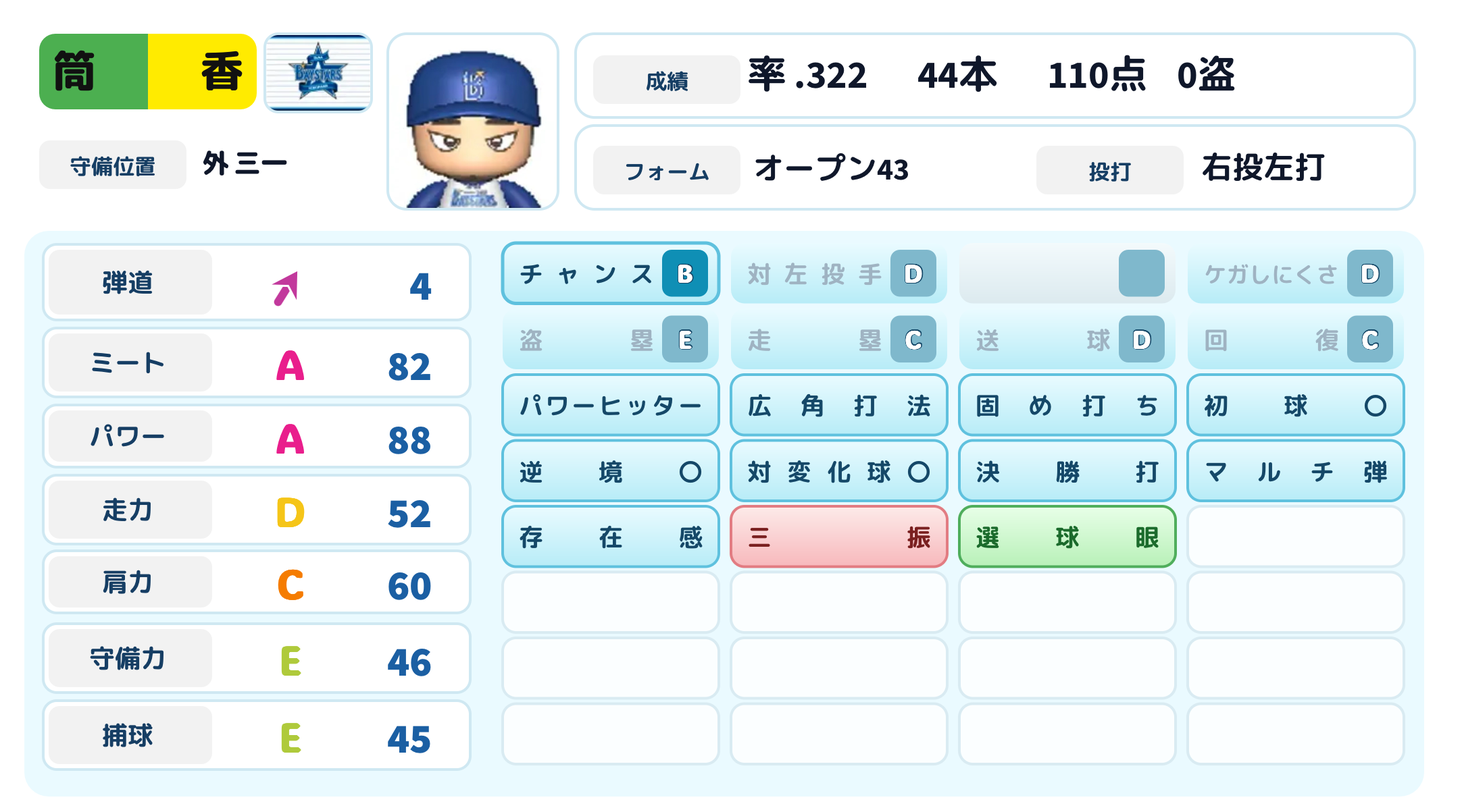
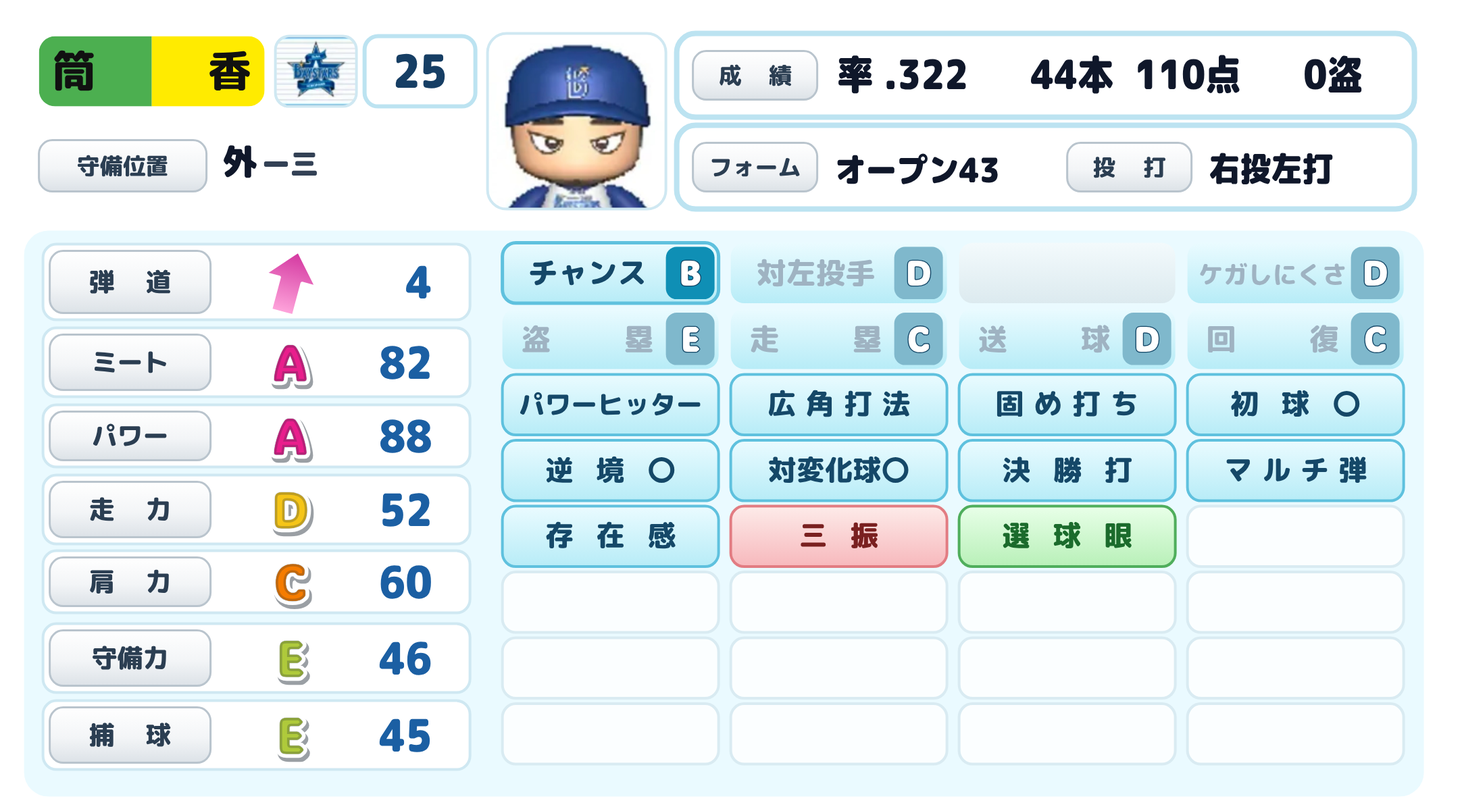
能力画像ジェネレーター（野手）：実機の画面に近づける
- 背番号の枠を追加（球団マークの右）。上段の比率を実機に合わせる
- キャッチャー以外の空きマスに残っていたランクの四角を消す
- 守備位置を「外ー三」の形に（サブポジションは「ー」のあとに少し小さく）
- 項目名の札を、グラデーションと枠線のあるボタン状に。2文字の項目は1字空ける
- 能力値のランク文字に白い縁取りと影を付け、ひと回り大きく
- 弾道の矢印を太いグラデーションの矢印に（弾道4はほぼ真上）
- 特殊能力の名前を枠の端まで広げず、短い名前は中央寄りに少しだけ空ける
- 上段のランク付き項目は名前を太く大きく、ランクの四角を札の高さいっぱいに
- 数字・成績の行を丸ゴシックの太字で、少し横幅を詰めて表示
- 成績・フォームの枠の縁を太く
- 使用例の画像を作り直す

Claude-Session: https://claude.ai/code/session_01SKh1jhAp32CEmbZCaaEmgk

diff --git a/nouryoku/index.html b/nouryoku/index.html
@@ -170,6 +170,10 @@ footer.disclaimer{ margin-top:30px; font-size:0.82rem; color:var(--ink-mute); bo
             <input type="text" id="p-name" value="ドック太郎" maxlength="10">
         </div>
         <div class="field">
+            <label for="p-number">背番号</label>
+            <input type="text" id="p-number" value="10" maxlength="3" inputmode="numeric">
+        </div>
+        <div class="field">
             <label>選手名プレートの色（複数選択でツートン）</label>
             <div class="name-color-picks">
                 <label><input type="checkbox" id="p-color-yellow" checked> 黄色（内野）</label>
@@ -202,7 +206,7 @@ footer.disclaimer{ margin-top:30px; font-size:0.82rem; color:var(--ink-mute); bo
         </div>
         <div class="field">
             <label for="p-subpos">サブポジション（任意）</label>
-            <input type="text" id="p-subpos" value="" maxlength="4" placeholder="例：一">
+            <input type="text" id="p-subpos" value="" maxlength="4" placeholder="例：三">
         </div>
         <div class="field">
             <label for="p-throwbat">投打</label>
@@ -317,7 +321,7 @@ footer.disclaimer{ margin-top:30px; font-size:0.82rem; color:var(--ink-mute); bo
 
 <h2>使い方</h2>
 <ol>
-<li>選手名・球団旗の色・守備位置・投打などの基本情報を入力します</li>
+<li>選手名・背番号・球団旗の色・守備位置・投打などの基本情報を入力します</li>
 <li>能力値（ミート・パワーなど）の数値とランクを入力します</li>
 <li>特殊能力上段のランクを選びます</li>
 <li>「成績」「パワー」などの項目名は、表示ラベルの変更欄や能力値・特殊能力上段の入力欄で自由に書き換えられます</li>
@@ -333,7 +337,7 @@ footer.disclaimer{ margin-top:30px; font-size:0.82rem; color:var(--ink-mute); bo
 </p>
 
 <p>
-<img src="/nouryoku/example-tsutsugo.png?v=2" alt="パワプロ風 能力画像ジェネレーター（野手）で作成した能力画像の例" width="2164" height="1200" loading="lazy" style="max-width:100%; height:auto; border:1px solid #c2cad6; border-radius:12px;">
+<img src="/nouryoku/example-tsutsugo.png?v=3" alt="パワプロ風 能力画像ジェネレーター（野手）で作成した能力画像の例" width="2164" height="1201" loading="lazy" style="max-width:100%; height:auto; border:1px solid #c2cad6; border-radius:12px;">
 </p>
 
 <h2>よくある質問</h2>
@@ -634,10 +638,13 @@ function fitTexts(svgRoot) {
     });
 }
 
-/* ---- 特殊能力バッジの名前を中央揃え・均等配置にする ----
-   自然な文字幅が枠より狭ければ文字間隔だけを広げて均等に埋め
-   （lengthAdjust="spacing"、字形は歪めない）、枠より広ければ
-   文字間隔ではなくフォントサイズを縮めて収める（字形が潰れるのを防ぐ）。 */
+/* ---- 特殊能力バッジの名前の字間 ----
+   実機は短い名前でも枠の端までは広げず、「三 振」「初 球 ○」のように
+   中央寄りに少しだけ空ける（2〜3文字は1字の0.8倍、4文字は0.35倍まで。
+   5文字以上は詰めたまま）。枠より広い名前は、字間ではなくフォントサイズを
+   縮めて収める（字形が潰れるのを防ぐ）。
+   data-full を付けたもの（選手名プレート）は、従来どおり枠いっぱいに広げる。 */
+var JUSTIFY_GAP = { 2: 0.8, 3: 0.8, 4: 0.35 };
 function justifyTexts(svgRoot) {
     svgRoot.querySelectorAll("text[data-justify]").forEach(function (t) {
         var maxW = parseFloat(t.getAttribute("data-justify"));
@@ -645,14 +652,63 @@ function justifyTexts(svgRoot) {
             var natural = t.getComputedTextLength();
             if (natural <= 0) return;
             if (natural <= maxW) {
-                t.setAttribute("textLength", maxW);
-                t.setAttribute("lengthAdjust", "spacing");
+                var target = maxW;
+                if (!t.hasAttribute("data-full")) {
+                    var n = Array.from(t.textContent).length;
+                    var size0 = parseFloat(t.getAttribute("font-size"));
+                    target = Math.min(maxW, natural + size0 * (JUSTIFY_GAP[n] || 0) * (n - 1));
+                }
+                if (target > natural + 0.5) {
+                    t.setAttribute("textLength", target);
+                    t.setAttribute("lengthAdjust", "spacing");
+                }
             } else {
                 var size = parseFloat(t.getAttribute("font-size"));
                 t.setAttribute("font-size", Math.max(9, size * (maxW / natural)));
             }
         } catch (e) { /* 非表示要素などでは無視 */ }
     });
+}
+
+/* ---- 数字・成績の字を少し細くする ----
+   実機の数字は横幅の狭い太い書体なので、data-squeeze の比率だけ
+   字形ごと横に縮める。data-max より広ければ、そこまで縮める。 */
+function squeezeTexts(svgRoot) {
+    svgRoot.querySelectorAll("text[data-squeeze]").forEach(function (t) {
+        try {
+            var natural = t.getComputedTextLength();
+            if (natural <= 0) return;
+            var target = natural * parseFloat(t.getAttribute("data-squeeze"));
+            var maxW = parseFloat(t.getAttribute("data-max"));
+            if (maxW && target > maxW) target = maxW;
+            t.setAttribute("textLength", target);
+            t.setAttribute("lengthAdjust", "spacingAndGlyphs");
+        } catch (e) { /* 非表示要素などでは無視 */ }
+    });
+}
+
+/* ---- 項目名の札（守備位置・成績・弾道・ミートなど） ----
+   実機の、白から薄い灰色へのグラデーションに枠線の付いたボタン状の札。
+   2文字の項目名（弾道・走力・成績・投打など）は1字ぶん空けて並べる。 */
+var labelPillSeq = 0;
+function labelPill(x, y, w, h, text, size) {
+    var gid = "gLabel" + (labelPillSeq++);
+    var fs = size || 18;
+    var two = Array.from(text).length === 2;
+    var fitAttr = two ? 'data-justify="' + Math.min(w - 16, fs * 3.2) + '" data-full="1"' : 'data-fit="' + (w - 14) + '"';
+    return '<defs><linearGradient id="' + gid + '" x1="0" y1="0" x2="0" y2="1">' +
+           '<stop offset="0" stop-color="#FFFFFF"/><stop offset="0.55" stop-color="#F3F5F7"/><stop offset="1" stop-color="#DCE2E7"/></linearGradient></defs>' +
+           '<rect x="' + x + '" y="' + y + '" width="' + w + '" height="' + h + '" rx="' + Math.min(10, h / 2) + '" fill="url(#' + gid + ')" stroke="#B9C4CD" stroke-width="1.5"/>' +
+           '<text ' + fitAttr + ' x="' + (x + w / 2) + '" y="' + (y + h / 2 + fs * 0.36) + '" text-anchor="middle" font-size="' + fs + '" font-weight="800" fill="#2B3E52" font-family="&quot;M PLUS Rounded 1c&quot;,&quot;Hiragino Kaku Gothic ProN&quot;,sans-serif">' + esc(text) + '</text>';
+}
+
+/* ---- 能力値のランク文字 ----
+   実機の、白い縁取りと濃い影の付いた立体的な字。 */
+function rankLetter(cx, baseline, rank, size) {
+    var font = 'font-family="\'ADLaM Display\',sans-serif" font-size="' + size + '" font-weight="800" text-anchor="middle"';
+    return '<text x="' + (cx + 1.5) + '" y="' + (baseline + 2.5) + '" ' + font + ' fill="#1E2A36" fill-opacity="0.45" stroke="#1E2A36" stroke-opacity="0.45" stroke-width="7" stroke-linejoin="round">' + rank + '</text>' +
+           '<text x="' + cx + '" y="' + baseline + '" ' + font + ' fill="' + STAT_RANK_COLOR[rank] + '" stroke="#FFFFFF" stroke-width="6" stroke-linejoin="round" paint-order="stroke fill">' + rank + '</text>' +
+           '<text x="' + cx + '" y="' + baseline + '" ' + font + ' fill="' + STAT_RANK_COLOR[rank] + '" stroke="#1E2A36" stroke-opacity="0.25" stroke-width="0.8">' + rank + '</text>';
 }
 
 function esc(s) {
@@ -670,14 +726,14 @@ function labelVal(id, fallback) {
    入れて均等配置し、5文字以上になったら詰めて表示する。 */
 function nameFitAttr(name, maxW) {
     var len = Array.from(name).length;
-    return (len >= 1 && len <= 4) ? 'data-justify="' + maxW + '"' : 'data-fit="' + maxW + '"';
+    return (len >= 1 && len <= 4) ? 'data-justify="' + maxW + '" data-full="1"' : 'data-fit="' + maxW + '"';
 }
 
 /* 特殊能力バッジの名前。中央揃えにし、描画後にjustifyTexts()で
    短い名前は文字間隔を広げて均等配置、長い名前は縮小して収める
    （data-justifyで対象幅を持たせておく）。 */
 function badgeLabel(cx, cy, maxW, text, color) {
-    return '<text data-justify="' + maxW + '" x="' + cx + '" y="' + cy + '" text-anchor="middle" font-size="18" font-weight="700" fill="' + color + '" font-family="&quot;M PLUS Rounded 1c&quot;,&quot;Hiragino Kaku Gothic ProN&quot;,sans-serif">' + esc(text) + '</text>';
+    return '<text data-justify="' + maxW + '" x="' + cx + '" y="' + cy + '" text-anchor="middle" font-size="21" font-weight="800" fill="' + color + '" font-family="&quot;M PLUS Rounded 1c&quot;,&quot;Hiragino Kaku Gothic ProN&quot;,sans-serif">' + esc(text) + '</text>';
 }
 
 /* =====================================================================
@@ -689,25 +745,27 @@ function badgeLabel(cx, cy, maxW, text, color) {
 var CARD_W = 1082;
 var HEADER_H = 171;
 
+/* 上段（選手名〜成績）は実機の画面の比率に合わせた（球団マークの右に背番号の枠） */
 var L = {
-    namePlate:   { x: 29,  y: 25,  w: 161, h: 56 },
-    flagBox:     { x: 196, y: 25,  w: 79,  h: 58 },
-    photoBox:    { x: 287, y: 25,  w: 126, h: 130 },
-    posLabel:    { x: 29,  y: 104, w: 109, h: 36 },
-    posValue:    { x: 149, y: 99,  w: 126, h: 42 },
-    bioRow1:     { x: 426, y: 25,  w: 621, h: 62 },
-    bio1Label:   { x: 439, y: 41,  w: 109, h: 36 },
+    namePlate:   { x: 29,  y: 27,  w: 167, h: 52 },
+    flagBox:     { x: 204, y: 27,  w: 60,  h: 52 },
+    numBox:      { x: 270, y: 27,  w: 82,  h: 52 },
+    photoBox:    { x: 361, y: 25,  w: 132, h: 130 },
+    posLabel:    { x: 29,  y: 104, w: 124, h: 38 },
+    posValue:    { x: 164, y: 99,  w: 188, h: 42 },
+    bioRow1:     { x: 501, y: 25,  w: 546, h: 62 },
+    bio1Label:   { x: 513, y: 38,  w: 92,  h: 36 },
     bio1Vals:    [
-        { x: 553, y: 36, w: 120, key: "avg", pre: "率 " },
-        { x: 679, y: 36, w: 90, key: "hr", pre: "" },
-        { x: 775, y: 36, w: 90, key: "rbi", pre: "" },
-        { x: 871, y: 36, w: 90, key: "sb", pre: "" }
+        { x: 620, y: 36, w: 132, key: "avg", pre: "率 " },
+        { x: 763, y: 36, w: 70, key: "hr", pre: "" },
+        { x: 840, y: 36, w: 96, key: "rbi", pre: "" },
+        { x: 965, y: 36, w: 70, key: "sb", pre: "" }
     ],
-    bioRow2:     { x: 426, y: 93,  w: 621, h: 62 },
-    bio2Label1:  { x: 439, y: 108, w: 109, h: 36 },
-    bio2Val1:    { x: 557, y: 105, w: 210, h: 42 },
-    bio2Label2:  { x: 767, y: 108, w: 109, h: 36 },
-    bio2Val2:    { x: 889, y: 104, w: 131, h: 42 },
+    bioRow2:     { x: 501, y: 93,  w: 546, h: 62 },
+    bio2Label1:  { x: 513, y: 106, w: 92,  h: 36 },
+    bio2Val1:    { x: 618, y: 105, w: 162, h: 42 },
+    bio2Label2:  { x: 790, y: 106, w: 92,  h: 36 },
+    bio2Val2:    { x: 895, y: 104, w: 140, h: 42 },
     bodyPanel:   { x: 18,  y: 171, w: 1036 },
     statColX: 32, statColW: 328,
     statLabelX: 43, statLabelW: 125,
@@ -802,10 +860,10 @@ var AKA_RIGHT = { bg: ["#FDEBE9", "#F7B8BC"], border: "#E27C82" };
 /* 弾道の矢印アイコン。実機の4種類（1:黄・水平／2:橙・浅い角度／
    3:赤・急な角度／4:紫がかったピンク・垂直）を再現する。 */
 var TRAJ_ARROW = {
-    1: { angle: 0, color: "#FFD400" },
-    2: { angle: -28, color: "#F5941C" },
-    3: { angle: -45, color: "#E5352E" },
-    4: { angle: -58, color: "#C2399C" }
+    1: { angle: 0, color: "#FFD400", light: "#FFF3A0" },
+    2: { angle: -25, color: "#F5941C", light: "#FFD29A" },
+    3: { angle: -50, color: "#E5352E", light: "#FF9C94" },
+    4: { angle: -75, color: "#D2349E", light: "#FFA6DC" }
 };
 /* 選手名プレートの背景。色を1つなら単色、複数なら左から順に均等分割したツートン/スリートーンにする */
 function nameplateStripes(x, y, w, h, colors) {
@@ -824,16 +882,17 @@ function nameplateStripes(x, y, w, h, colors) {
 
 function trajArrow(cx, cy, value) {
     var spec = TRAJ_ARROW[value] || TRAJ_ARROW[1];
-    var w = 22, h = 26, shaftLen = 14;
-    /* 右向きの矢を基準に、値に応じて回転させる。矢じり（ダーツ型）に
-       軸（棒）を刺して、矢らしい形にする */
+    /* 実機の太い矢印。右向きの矢を基準に、値に応じて回転させる
+       （弾道4はほぼ真上）。軸に沿って明るい色から濃い色へのグラデーション */
+    var k = 1.25;
     var pts = [
-        [w / 2, 0], [-w / 2, -h / 2], [-w * 0.15, 0], [-w / 2, h / 2]
-    ].map(function (p) { return (cx + p[0]) + "," + (cy + p[1]); }).join(" ");
-    var shaftX0 = cx - w * 0.15, shaftX1 = cx - w * 0.15 - shaftLen;
-    return '<g transform="rotate(' + spec.angle + ' ' + cx + ' ' + cy + ')">' +
-           '<line x1="' + shaftX0 + '" y1="' + cy + '" x2="' + shaftX1 + '" y2="' + cy + '" stroke="' + spec.color + '" stroke-width="6" stroke-linecap="round"/>' +
-           '<polygon points="' + pts + '" fill="' + spec.color + '" stroke="#ffffff" stroke-width="1.5"/>' +
+        [19, 0], [1, -16], [1, -7], [-19, -7], [-19, 7], [1, 7], [1, 16]
+    ].map(function (p) { return (cx + p[0] * k) + "," + (cy + p[1] * k); }).join(" ");
+    var gid = "gTraj" + value;
+    return '<defs><linearGradient id="' + gid + '" gradientUnits="userSpaceOnUse" x1="' + (cx - 19 * k) + '" y1="' + cy + '" x2="' + (cx + 19 * k) + '" y2="' + cy + '">' +
+           '<stop offset="0" stop-color="' + spec.light + '"/><stop offset="1" stop-color="' + spec.color + '"/></linearGradient></defs>' +
+           '<g transform="rotate(' + spec.angle + ' ' + cx + ' ' + cy + ')">' +
+           '<polygon points="' + pts + '" fill="url(#' + gid + ')" stroke="#FFFFFF" stroke-width="2.5" stroke-linejoin="round"/>' +
            '</g>';
 }
 
@@ -842,7 +901,10 @@ function renderCard() {
     var teamColor = document.getElementById("p-teamcolor").value;
     var pos = document.getElementById("p-pos").value;
     var subpos = document.getElementById("p-subpos").value;
-    var posText = pos + (subpos ? (" " + subpos) : "");
+    /* 実機は「外ー三」のように、メインの守備位置のあとに「ー」とサブポジションを
+       少し小さく並べる。入力に「ー」などが入っていても1つにまとめる */
+    var subClean = subpos.replace(/[ー－\-‐・、,\s]/g, "");
+    var number = (document.getElementById("p-number") || { value: "" }).value.trim();
     var throwbat = document.getElementById("p-throwbat").value;
     var form = document.getElementById("p-form").value;
     var avg = document.getElementById("p-avg").value;
@@ -880,8 +942,7 @@ function renderCard() {
             var gidN = "gBlank" + i;
             return '<defs><linearGradient id="' + gidN + '" x1="0" y1="0" x2="0" y2="1">' +
                    '<stop offset="0" stop-color="' + bgN[0] + '"/><stop offset="1" stop-color="' + bgN[1] + '"/></linearGradient></defs>' +
-                   '<rect x="' + x + '" y="' + y + '" width="' + w + '" height="' + h + '" rx="10" fill="url(#' + gidN + ')"/>' +
-                   '<rect x="' + (x + w - 42) + '" y="' + (y + 5) + '" width="34" height="' + (h - 10) + '" rx="7" fill="' + BADGE_RANK_TAG.D + '"/>';
+                   '<rect x="' + x + '" y="' + y + '" width="' + w + '" height="' + h + '" rx="10" fill="url(#' + gidN + ')"/>';
         }
         if (b.type === "promoted") {
             /* Sランクで専用名が付く特殊能力は、金特と同じ配色（タグ無し）で表示する */
@@ -901,14 +962,17 @@ function renderCard() {
             var isPaleText = b.rank === "C" || b.rank === "D" || b.rank === "E";
             var textColor = tier === "bad" ? "#7A2020" : (isPaleText ? "#9FB3C2" : "#154868");
             var gid = "gRank" + i;
-            var labelW = w - 56;
+            /* 実機は項目名を太く大きく、枠いっぱいに入れる（1字ずつ散らさない）。
+               ランクの四角は札の高さいっぱいで、右端に寄せる */
+            var tagW = 36;
+            var labelW = w - tagW - 14;
             var border = isHigh ? ' stroke="#5FC1DE" stroke-width="2.5"' : "";
             return '<defs><linearGradient id="' + gid + '" x1="0" y1="0" x2="0" y2="1">' +
                    '<stop offset="0" stop-color="' + bg[0] + '"/><stop offset="1" stop-color="' + bg[1] + '"/></linearGradient></defs>' +
                    '<rect x="' + x + '" y="' + y + '" width="' + w + '" height="' + h + '" rx="10" fill="url(#' + gid + ')"' + border + '/>' +
-                   badgeLabel(x + 10 + labelW / 2, y + h / 2 + 7, labelW - 4, b.name, textColor) +
-                   '<rect x="' + (x + w - 42) + '" y="' + (y + 5) + '" width="34" height="' + (h - 10) + '" rx="7" fill="' + BADGE_RANK_TAG[b.rank] + '"/>' +
-                   '<text x="' + (x + w - 25) + '" y="' + (y + h / 2 + 7) + '" text-anchor="middle" font-size="19" font-weight="800" fill="#fff" stroke="#154868" stroke-width="1.2" paint-order="stroke fill" font-family="\'ADLaM Display\',sans-serif">' + b.rank + '</text>';
+                   '<text ' + (Array.from(b.name).length <= 2 ? 'data-justify="' + (labelW - 12) + '" data-full="1"' : 'data-fit="' + labelW + '"') + ' x="' + (x + 8 + labelW / 2) + '" y="' + (y + h / 2 + 8) + '" text-anchor="middle" font-size="22" font-weight="800" fill="' + textColor + '" font-family="&quot;M PLUS Rounded 1c&quot;,&quot;Hiragino Kaku Gothic ProN&quot;,sans-serif">' + esc(b.name) + '</text>' +
+                   '<rect x="' + (x + w - tagW - 3) + '" y="' + (y + 3) + '" width="' + tagW + '" height="' + (h - 6) + '" rx="8" fill="' + BADGE_RANK_TAG[b.rank] + '"/>' +
+                   '<text x="' + (x + w - 3 - tagW / 2) + '" y="' + (y + h / 2 + 9) + '" text-anchor="middle" font-size="25" font-weight="800" fill="#fff" stroke="#154868" stroke-width="1.4" paint-order="stroke fill" font-family="\'ADLaM Display\',sans-serif">' + b.rank + '</text>';
         }
         if (b.type === "aka2tone") {
             /* 赤青特（☆がプラスの赤特）: 左半分を赤、右半分を青のツートンにする */
@@ -943,13 +1007,12 @@ function renderCard() {
         var rank = s.hasRank ? document.getElementById("stat-rank-" + s.id).value : null;
         var v = document.getElementById("stat-val-" + s.id).value;
         var rankText = rank
-            ? '<text data-fit="' + L.statRankW + '" x="' + (L.statRankX + L.statRankW / 2) + '" y="' + (y + h / 2 + 13) + '" text-anchor="middle" font-size="31" font-weight="800" fill="' + STAT_RANK_COLOR[rank] + '" font-family="\'ADLaM Display\',sans-serif">' + rank + '</text>'
+            ? rankLetter(L.statRankX + L.statRankW / 2, y + h / 2 + 13, rank, 36)
             : (s.id === "traj" ? trajArrow(L.statRankX + L.statRankW / 2, y + h / 2, parseInt(v, 10)) : "");
         return '<rect x="' + L.statColX + '" y="' + y + '" width="' + statCardW + '" height="' + h + '" rx="10" fill="#FFFFFF" stroke="#CFE8F2" stroke-width="2"/>' +
-               '<rect x="' + (L.statColX + 4) + '" y="' + (y + 4) + '" width="' + (L.statLabelW - 4) + '" height="' + (h - 8) + '" rx="8" fill="#F2F2F2"/>' +
-               '<text data-fit="' + (L.statLabelW - 14) + '" x="' + (L.statColX + L.statLabelW / 2) + '" y="' + (y + h / 2 + 7) + '" text-anchor="middle" font-size="19" font-weight="700" fill="#163E64" font-family="&quot;M PLUS Rounded 1c&quot;,&quot;Hiragino Kaku Gothic ProN&quot;,sans-serif">' + esc(labelVal("statlabel-" + s.id, s.label)) + '</text>' +
+               labelPill(L.statColX + 5, y + 5, L.statLabelW - 6, h - 10, labelVal("statlabel-" + s.id, s.label), 19) +
                rankText +
-               '<text data-fit="' + (L.statNumW - 24) + '" x="' + (L.statNumX + L.statNumW - 28) + '" y="' + (y + h / 2 + 13) + '" text-anchor="end" font-size="31" font-weight="800" fill="#1B5FA3" font-family="\'Source Sans 3\',sans-serif">' + esc(v) + '</text>';
+               '<text data-squeeze="0.9" data-max="' + (L.statNumW - 24) + '" x="' + (L.statNumX + L.statNumW - 28) + '" y="' + (y + h / 2 + 12) + '" text-anchor="end" font-size="33" font-weight="900" fill="#1B5FA3" font-family="&quot;M PLUS Rounded 1c&quot;,&quot;Hiragino Kaku Gothic ProN&quot;,sans-serif">' + esc(v) + '</text>';
     }).join("");
 
     var gridBottom = L.gridRowY0 + rows * L.gridRowH;
@@ -959,7 +1022,7 @@ function renderCard() {
 
     var bio1 = L.bio1Vals.map(function (b) {
         var val = document.getElementById("p-" + b.key).value;
-        return '<text data-fit="' + b.w + '" x="' + b.x + '" y="' + (b.y + 29) + '" font-size="29" font-weight="700" fill="#0f172a" font-family="\'Source Sans 3\',&quot;M PLUS Rounded 1c&quot;,&quot;Hiragino Kaku Gothic ProN&quot;,sans-serif">' + esc(b.pre) + esc(val) + '</text>';
+        return '<text data-squeeze="0.88" data-max="' + b.w + '" x="' + b.x + '" y="' + (b.y + 30) + '" font-size="30" font-weight="900" fill="#0f172a" font-family="&quot;M PLUS Rounded 1c&quot;,&quot;Hiragino Kaku Gothic ProN&quot;,sans-serif">' + esc(b.pre) + esc(val) + '</text>';
     }).join("");
 
     var svg = '' +
@@ -982,6 +1045,10 @@ function renderCard() {
             : '<rect x="' + L.flagBox.x + '" y="' + L.flagBox.y + '" width="' + L.flagBox.w + '" height="' + L.flagBox.h + '" rx="10" fill="' + teamColor + '"/>') +
         '<rect x="' + L.flagBox.x + '" y="' + L.flagBox.y + '" width="' + L.flagBox.w + '" height="' + L.flagBox.h + '" rx="10" fill="none" stroke="#CFE8F2" stroke-width="2"/>' +
 
+        /* 背番号 */
+        '<rect x="' + L.numBox.x + '" y="' + L.numBox.y + '" width="' + L.numBox.w + '" height="' + L.numBox.h + '" rx="10" fill="#ffffff" stroke="#BCE3F1" stroke-width="3"/>' +
+        (number ? '<text data-squeeze="0.9" data-max="' + (L.numBox.w - 14) + '" x="' + (L.numBox.x + L.numBox.w / 2) + '" y="' + (L.numBox.y + L.numBox.h / 2 + 12) + '" text-anchor="middle" font-size="34" font-weight="900" fill="#163E64" font-family="&quot;M PLUS Rounded 1c&quot;,&quot;Hiragino Kaku Gothic ProN&quot;,sans-serif">' + esc(number) + '</text>' : '') +
+
         /* 顔写真枠（アップロードした画像があればそれを表示、無ければプレースホルダー） */
         (playerPhotoImg
             ? '<defs><clipPath id="clipPhoto"><rect x="' + L.photoBox.x + '" y="' + L.photoBox.y + '" width="' + L.photoBox.w + '" height="' + L.photoBox.h + '" rx="14"/></clipPath></defs>' +
@@ -990,23 +1057,20 @@ function renderCard() {
         '<rect x="' + L.photoBox.x + '" y="' + L.photoBox.y + '" width="' + L.photoBox.w + '" height="' + L.photoBox.h + '" rx="14" fill="none" stroke="#CFE8F2" stroke-width="2"/>' +
 
         /* 守備位置 */
-        '<rect x="' + L.posLabel.x + '" y="' + L.posLabel.y + '" width="' + L.posLabel.w + '" height="' + L.posLabel.h + '" rx="8" fill="#F2F2F2"/>' +
-        '<text data-fit="' + (L.posLabel.w - 12) + '" x="' + (L.posLabel.x + L.posLabel.w / 2) + '" y="' + (L.posLabel.y + L.posLabel.h / 2 + 7) + '" text-anchor="middle" font-size="16" font-weight="700" fill="#163E64" font-family="&quot;M PLUS Rounded 1c&quot;,&quot;Hiragino Kaku Gothic ProN&quot;,sans-serif">' + esc(labelVal("label-pos", "守備位置")) + '</text>' +
-        '<text data-fit="' + (L.posValue.w - 10) + '" x="' + L.posValue.x + '" y="' + (L.posValue.y + L.posValue.h / 2 + 8) + '" font-size="20" font-weight="800" fill="#0f172a" font-family="\'Source Sans 3\',&quot;M PLUS Rounded 1c&quot;,&quot;Hiragino Kaku Gothic ProN&quot;,sans-serif">' + esc(posText) + '</text>' +
+        labelPill(L.posLabel.x, L.posLabel.y, L.posLabel.w, L.posLabel.h, labelVal("label-pos", "守備位置"), 17) +
+        '<text data-fit="' + (L.posValue.w - 10) + '" x="' + L.posValue.x + '" y="' + (L.posValue.y + L.posValue.h / 2 + 9) + '" font-size="26" font-weight="900" fill="#0f172a" font-family="&quot;M PLUS Rounded 1c&quot;,&quot;Hiragino Kaku Gothic ProN&quot;,sans-serif">' + esc(pos) +
+            (subClean ? '<tspan dx="4" font-size="21" fill="#334155">ー' + esc(subClean) + '</tspan>' : '') + '</text>' +
 
         /* 成績・フォーム・投打（2段のパネル） */
-        '<rect x="' + L.bioRow1.x + '" y="' + L.bioRow1.y + '" width="' + L.bioRow1.w + '" height="' + L.bioRow1.h + '" rx="14" fill="#ffffff" stroke="#CFE8F2" stroke-width="2"/>' +
-        '<rect x="' + L.bio1Label.x + '" y="' + L.bio1Label.y + '" width="' + L.bio1Label.w + '" height="' + L.bio1Label.h + '" rx="8" fill="#F2F2F2"/>' +
-        '<text data-fit="' + (L.bio1Label.w - 12) + '" x="' + (L.bio1Label.x + L.bio1Label.w / 2) + '" y="' + (L.bio1Label.y + L.bio1Label.h / 2 + 7) + '" text-anchor="middle" font-size="16" font-weight="700" fill="#163E64" font-family="&quot;M PLUS Rounded 1c&quot;,&quot;Hiragino Kaku Gothic ProN&quot;,sans-serif">' + esc(labelVal("label-bio1", "成績")) + '</text>' +
+        '<rect x="' + L.bioRow1.x + '" y="' + L.bioRow1.y + '" width="' + L.bioRow1.w + '" height="' + L.bioRow1.h + '" rx="14" fill="#ffffff" stroke="#BCE3F1" stroke-width="4"/>' +
+        labelPill(L.bio1Label.x, L.bio1Label.y, L.bio1Label.w, L.bio1Label.h, labelVal("label-bio1", "成績"), 17) +
         bio1 +
 
-        '<rect x="' + L.bioRow2.x + '" y="' + L.bioRow2.y + '" width="' + L.bioRow2.w + '" height="' + L.bioRow2.h + '" rx="14" fill="#ffffff" stroke="#CFE8F2" stroke-width="2"/>' +
-        '<rect x="' + L.bio2Label1.x + '" y="' + L.bio2Label1.y + '" width="' + L.bio2Label1.w + '" height="' + L.bio2Label1.h + '" rx="8" fill="#F2F2F2"/>' +
-        '<text data-fit="' + (L.bio2Label1.w - 12) + '" x="' + (L.bio2Label1.x + L.bio2Label1.w / 2) + '" y="' + (L.bio2Label1.y + L.bio2Label1.h / 2 + 7) + '" text-anchor="middle" font-size="16" font-weight="700" fill="#163E64" font-family="&quot;M PLUS Rounded 1c&quot;,&quot;Hiragino Kaku Gothic ProN&quot;,sans-serif">' + esc(labelVal("label-form", "フォーム")) + '</text>' +
-        '<text data-fit="' + (L.bio2Val1.w - 10) + '" x="' + L.bio2Val1.x + '" y="' + (L.bio2Val1.y + L.bio2Val1.h / 2 + 7) + '" font-size="23" font-weight="700" fill="#0f172a" font-family="\'Source Sans 3\',&quot;M PLUS Rounded 1c&quot;,&quot;Hiragino Kaku Gothic ProN&quot;,sans-serif">' + esc(form) + '</text>' +
-        '<rect x="' + L.bio2Label2.x + '" y="' + L.bio2Label2.y + '" width="' + L.bio2Label2.w + '" height="' + L.bio2Label2.h + '" rx="8" fill="#F2F2F2"/>' +
-        '<text data-fit="' + (L.bio2Label2.w - 12) + '" x="' + (L.bio2Label2.x + L.bio2Label2.w / 2) + '" y="' + (L.bio2Label2.y + L.bio2Label2.h / 2 + 7) + '" text-anchor="middle" font-size="16" font-weight="700" fill="#163E64" font-family="&quot;M PLUS Rounded 1c&quot;,&quot;Hiragino Kaku Gothic ProN&quot;,sans-serif">' + esc(labelVal("label-throwbat", "投打")) + '</text>' +
-        '<text data-fit="' + (L.bio2Val2.w - 10) + '" x="' + L.bio2Val2.x + '" y="' + (L.bio2Val2.y + L.bio2Val2.h / 2 + 7) + '" font-size="23" font-weight="700" fill="#0f172a" font-family="&quot;M PLUS Rounded 1c&quot;,&quot;Hiragino Kaku Gothic ProN&quot;,sans-serif">' + esc(throwbat) + '</text>' +
+        '<rect x="' + L.bioRow2.x + '" y="' + L.bioRow2.y + '" width="' + L.bioRow2.w + '" height="' + L.bioRow2.h + '" rx="14" fill="#ffffff" stroke="#BCE3F1" stroke-width="4"/>' +
+        labelPill(L.bio2Label1.x, L.bio2Label1.y, L.bio2Label1.w, L.bio2Label1.h, labelVal("label-form", "フォーム"), 17) +
+        '<text data-squeeze="0.92" data-max="' + (L.bio2Val1.w - 6) + '" x="' + L.bio2Val1.x + '" y="' + (L.bio2Val1.y + L.bio2Val1.h / 2 + 9) + '" font-size="25" font-weight="900" fill="#0f172a" font-family="&quot;M PLUS Rounded 1c&quot;,&quot;Hiragino Kaku Gothic ProN&quot;,sans-serif">' + esc(form) + '</text>' +
+        labelPill(L.bio2Label2.x, L.bio2Label2.y, L.bio2Label2.w, L.bio2Label2.h, labelVal("label-throwbat", "投打"), 17) +
+        '<text data-squeeze="0.92" data-max="' + (L.bio2Val2.w - 6) + '" x="' + L.bio2Val2.x + '" y="' + (L.bio2Val2.y + L.bio2Val2.h / 2 + 9) + '" font-size="25" font-weight="900" fill="#0f172a" font-family="&quot;M PLUS Rounded 1c&quot;,&quot;Hiragino Kaku Gothic ProN&quot;,sans-serif">' + esc(throwbat) + '</text>' +
 
         /* 能力値テーブル */
         statHTML +
@@ -1021,6 +1085,7 @@ function renderCard() {
     var svgEl = wrap.querySelector("svg");
     fitTexts(svgEl);
     justifyTexts(svgEl);
+    squeezeTexts(svgEl);
 }
 
 /* ---- 入力内容の保存（ブラウザのlocalStorageのみ。サーバには送信しない） ----
